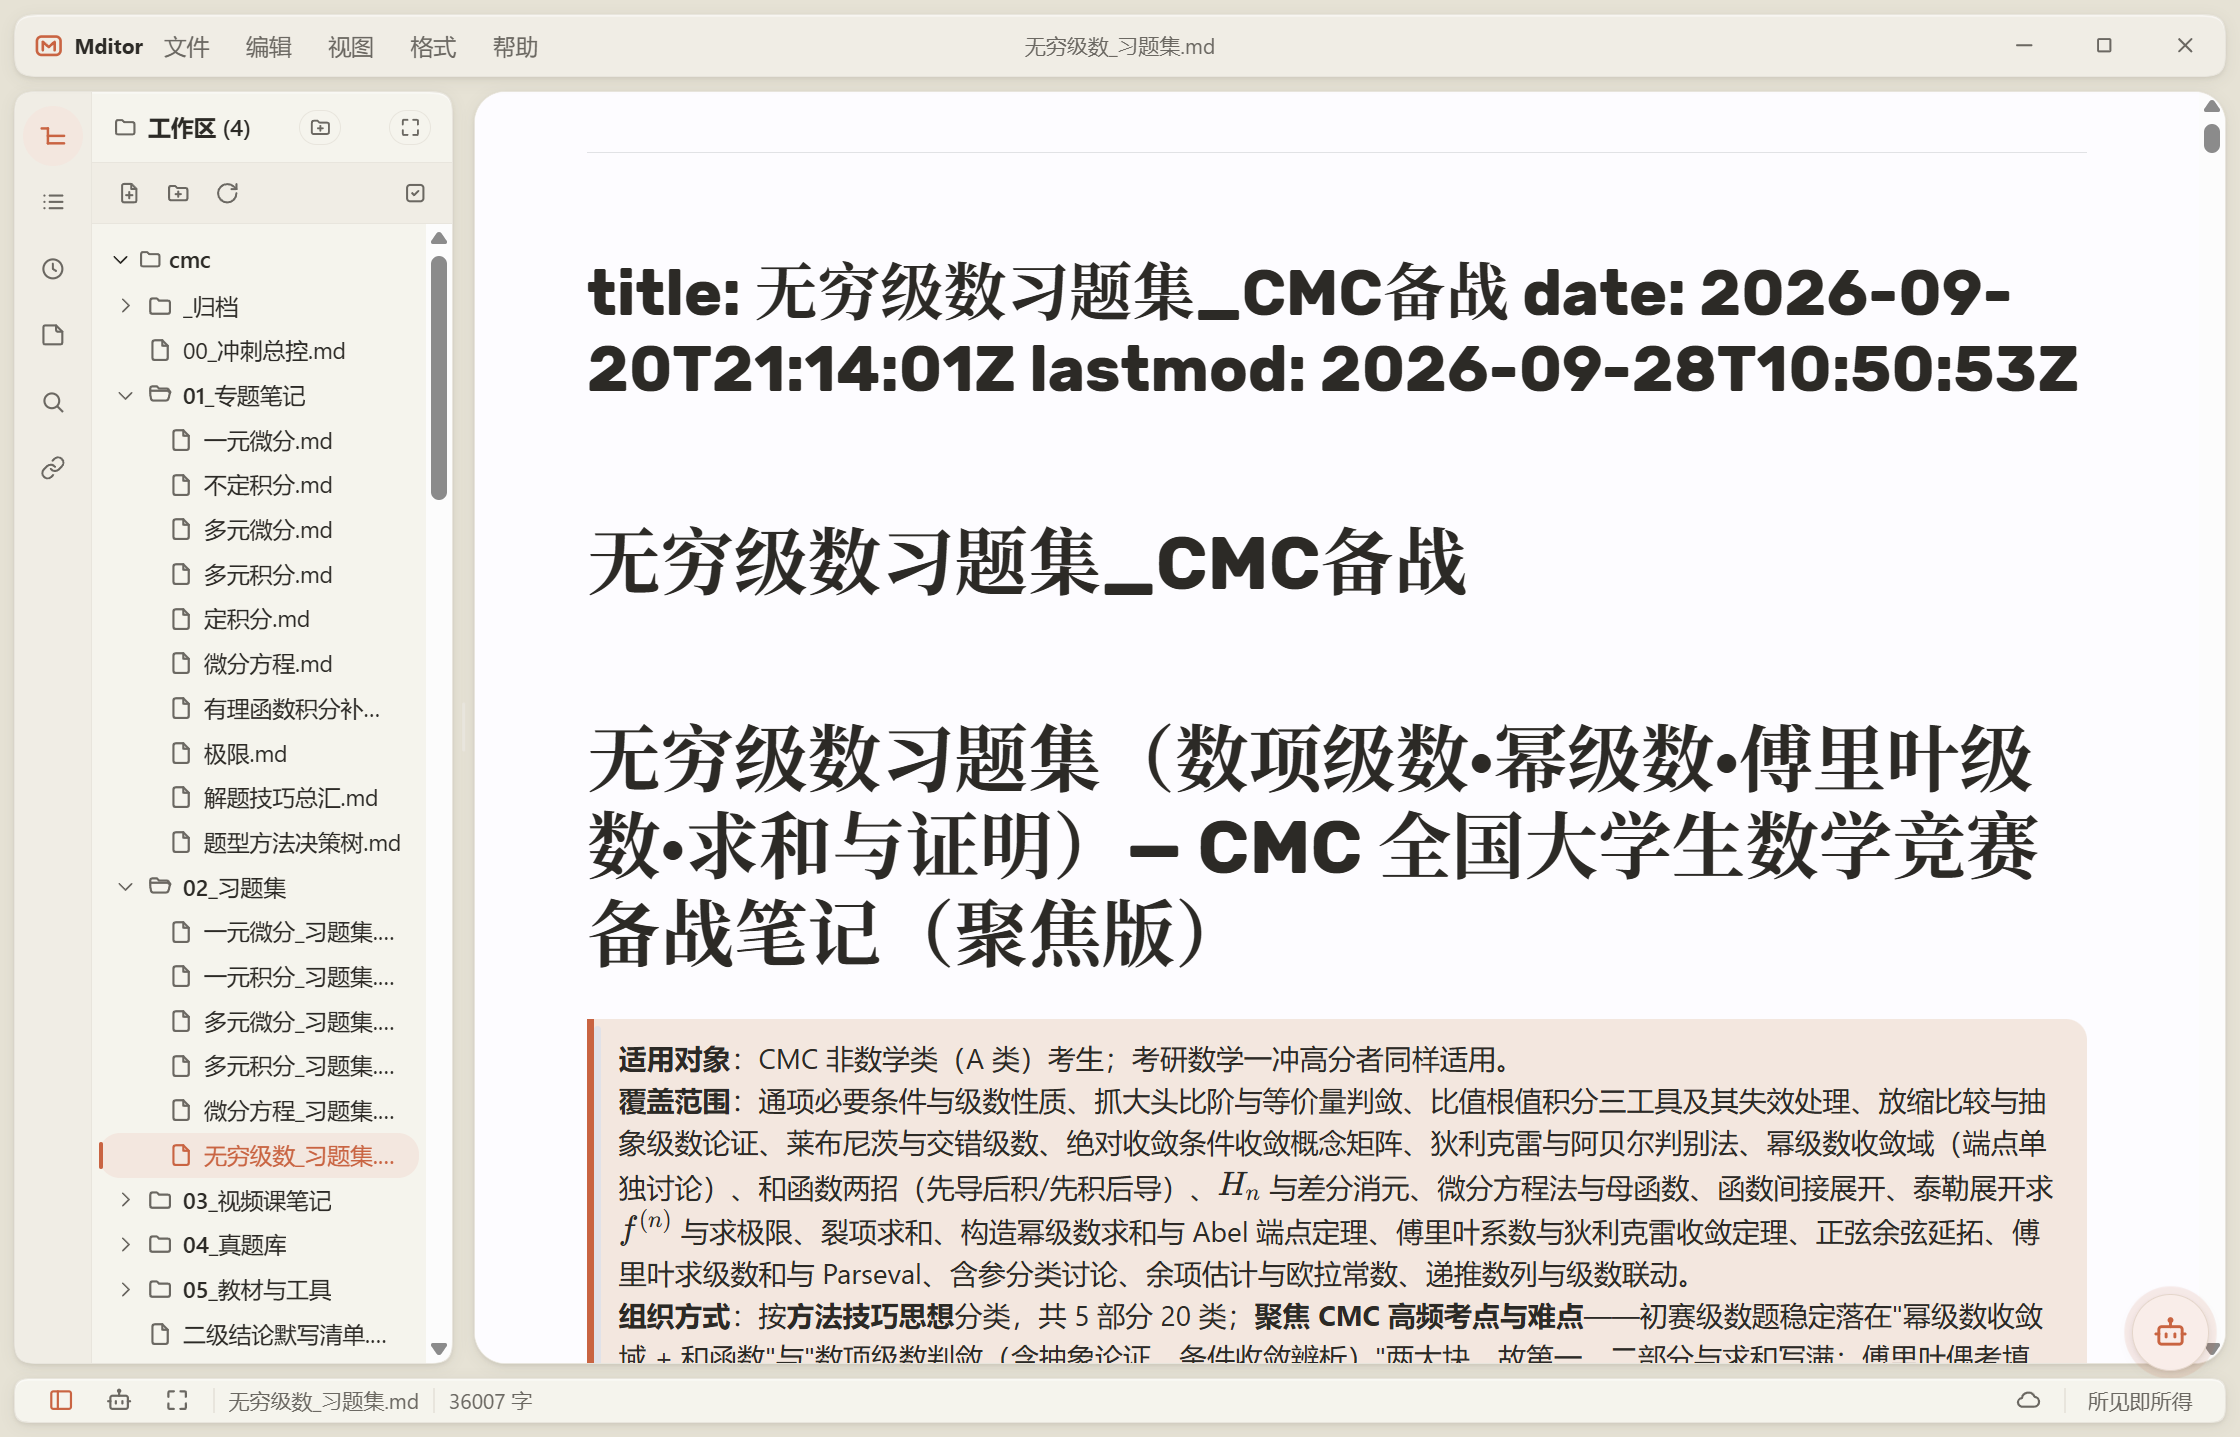
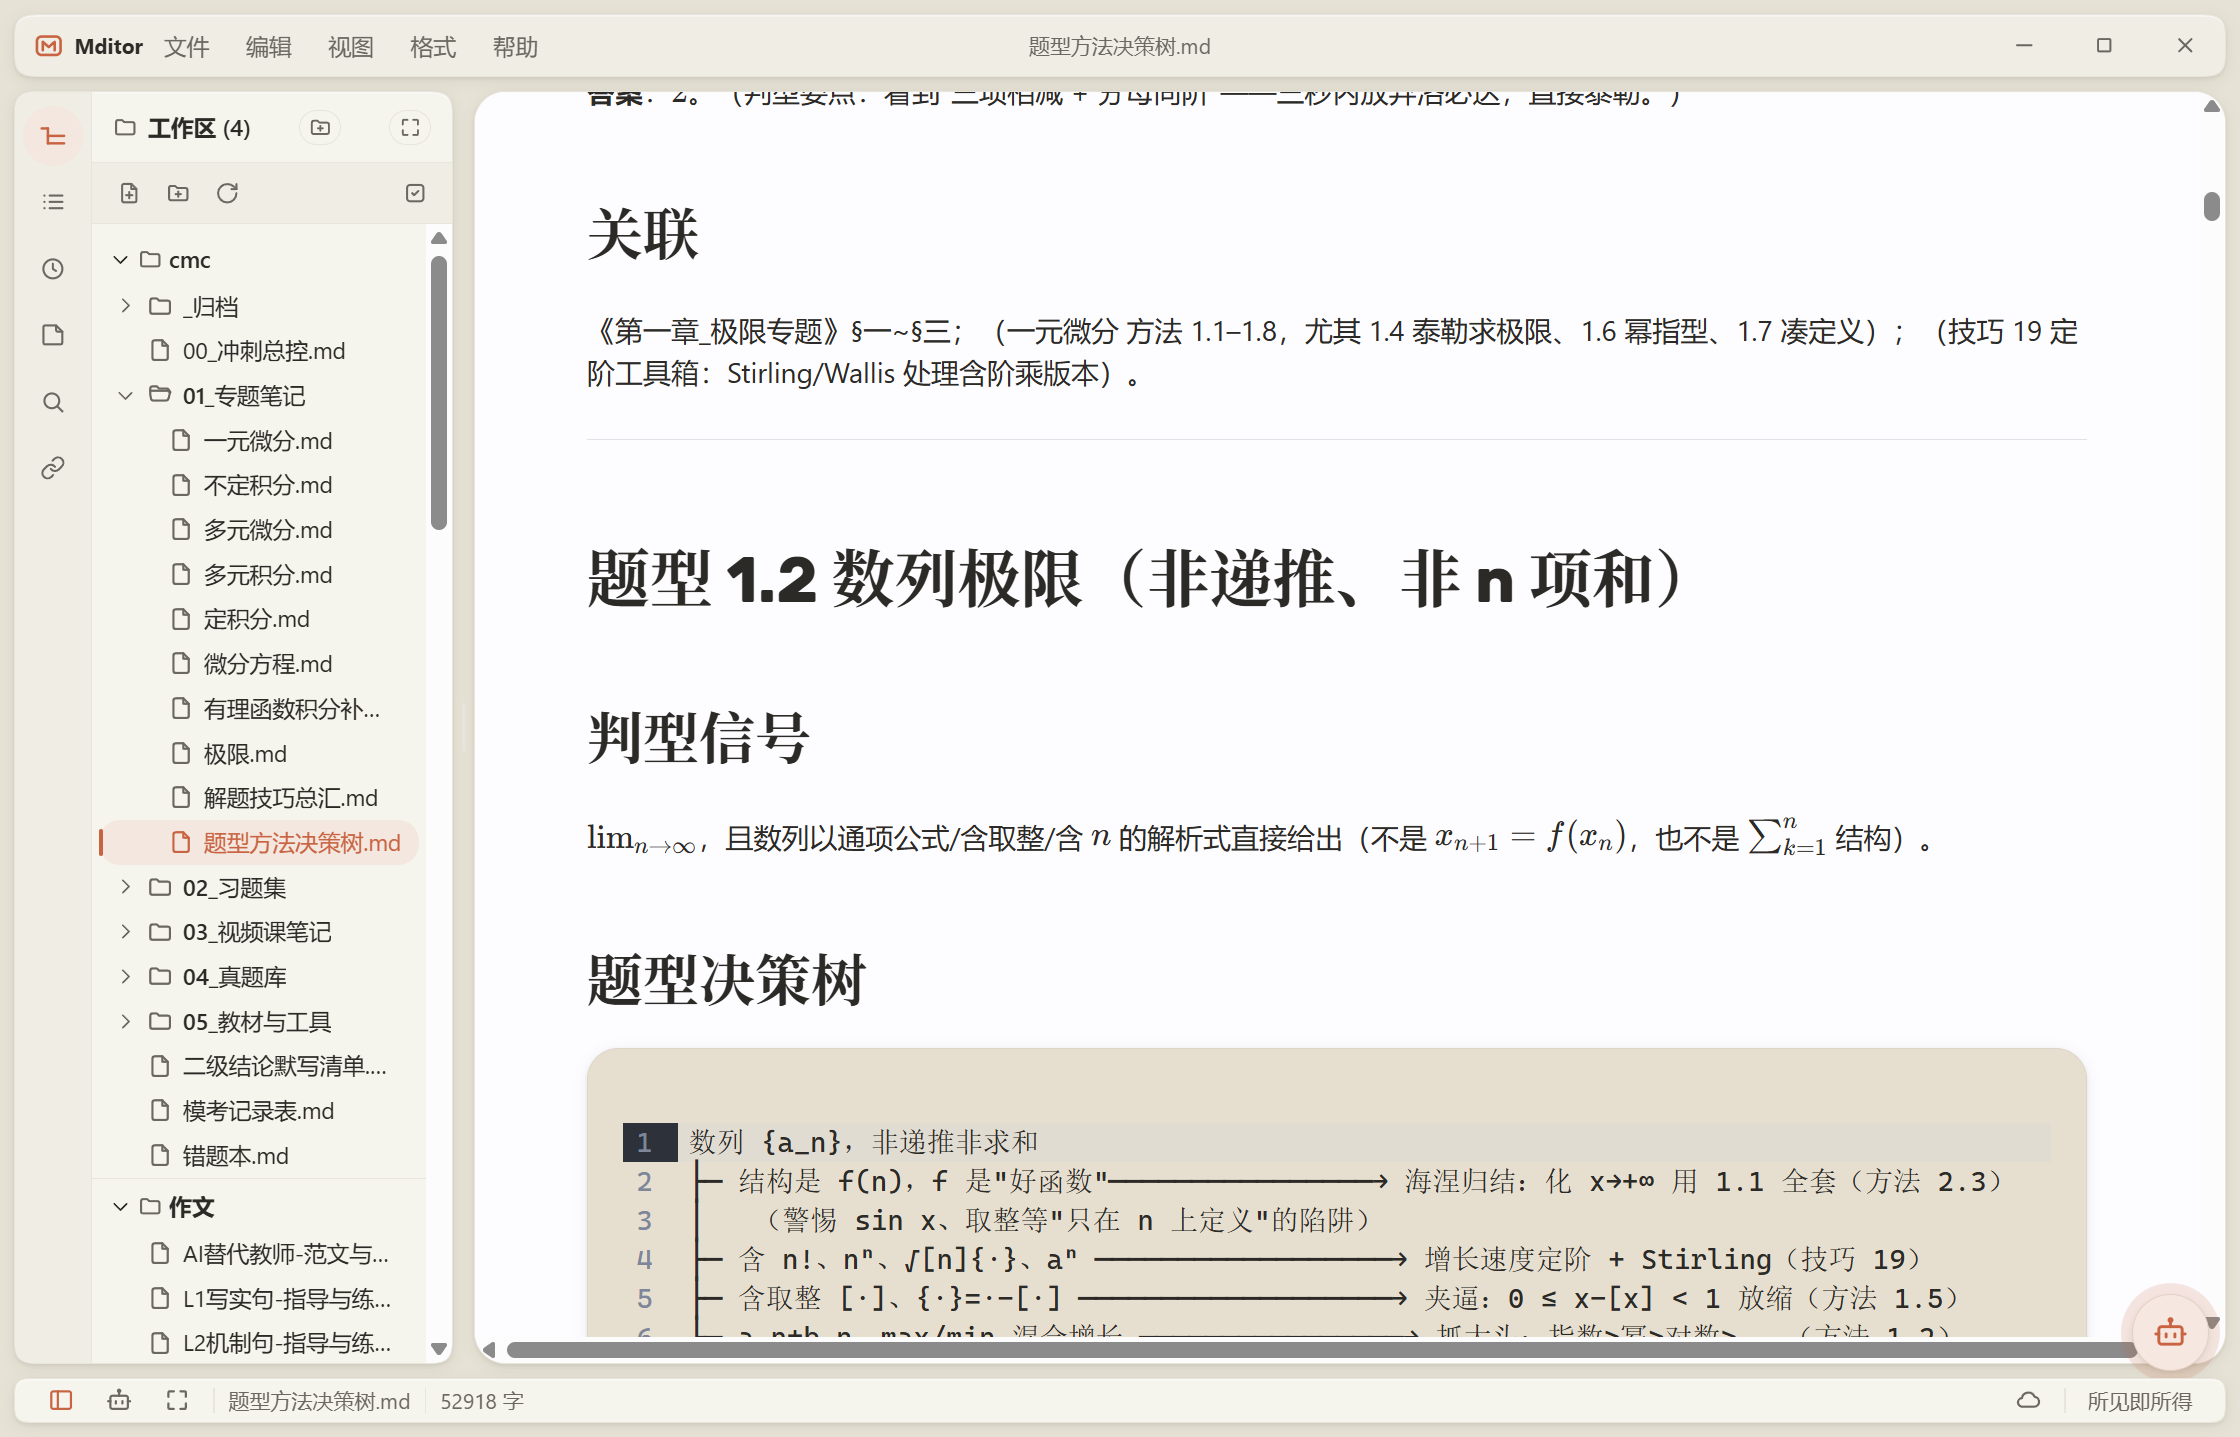
docs(perf): V5.0.0 正式版打包冒烟 PASS 补录——报告/memory 收尾

diff --git a/mditor/docs/large-doc-upscroll-jank-report.md b/mditor/docs/large-doc-upscroll-jank-report.md
@@ -163,3 +163,4 @@
 - 文档：CHANGELOG Unreleased、`docs/performance.md` R8 节、`docs/dev-anomaly-codes.md` MD-9001 局限注记、memory 日记
 - 发版：按任务书 §11 本轮不发版；安装包已重建并通过冒烟（V5.0.0-beta 同版本号重打，版本号变更/正式发版由用户决定）。
 - **「完成后打包V5.0.0」裁决**：goal 尾句的"打包V5.0.0"按任务书 §11（"本轮不发版；阶段六打包冒烟安装包重建后验完即弃或留用由用户定，发版节奏由用户另行决定"）执行为**重建 V5.0.0 系列安装包并实机冒烟**——5.0.0-beta 即 V5.0.0 的当前交付序列（t virtually 同一 release 线）。将版本号从 5.0.0-beta 改为 5.0.0 正式版属发版决策（改 CHANGELOG 版本节/官网口径/预发布后缀），任务书明文留待用户拍板，本轮不越权执行。
+- **正式版打包（用户拍板后补记，commit e840d26）**：版本号 5.0.0-beta → **5.0.0**（tauri.conf.json/Cargo.toml/Cargo.lock/package.json 四处，CHANGELOG R8 批次转 5.0.0 发版节）；`npm run tauri build` 产出 **`Mditor_5.0.0_x64-setup.exe`**（15:17），exe ProductVersion 实测 5.0.0；打包冒烟重跑 **PASS**（r6 vpUnready 0/泵出口在包内 + r7 停滚漂移 0 + r8 上下滚 jank32 双零、p95 比 0.63）。

diff --git a/memory/2026-10-03.md b/memory/2026-10-03.md
@@ -74,3 +74,5 @@
 - 1MB 慢滚双口径两轮方向一致：原口径（头部对照）jank32 比 2.74/2.55、p95 比 1.67/1.76（up 劣化，归因位置混杂）；修正口径（深位对照）jank 比 0.97/1.00、p95 比 1.02/1.15（两轮全 ≤1.25 达标）。密度档修正口径两轮 1.05/1.04。
 - **WebView2 runtime 假说被自己的对照推翻**：154.0.4258.48 安装于 10-01 10:59，R7 收尾（10-03 凌晨）与本轮同 runtime——T2 durP95 124/127/130 漂移源非 runtime；durP50 跨轮 35→118 方差 3.4× 证明该指标受会话状态强污染；abab p50 -35% 改善与 p95 +8% 并存=分布更紧凑签名。T 类门教训：跨批绝对值不可比，后续以同批 ABAB 内对照为准。
 - 打包V5.0.0 裁决入报告：按任务书 §11 执行为"重建 V5.0.0 系列安装包+冒烟 PASS"，5.0.0 正式版号变更属发版决策待用户拍板。
+
+**V5.0.0 正式版打包（用户拍板）**：版本号 5.0.0-beta→5.0.0（tauri.conf/Cargo.toml/Cargo.lock/package.json 四处；package-lock 顶部仍 4.19.0 历史未同步不动）；CHANGELOG R8 批转 5.0.0 发版节；commit e840d26；Mditor_5.0.0_x64-setup.exe 15:17 产出，exe 实测 ProductVersion 5.0.0，打包冒烟三断言 PASS（r8 本轮上下滚 jank32 双零/p95 比 0.63）。
